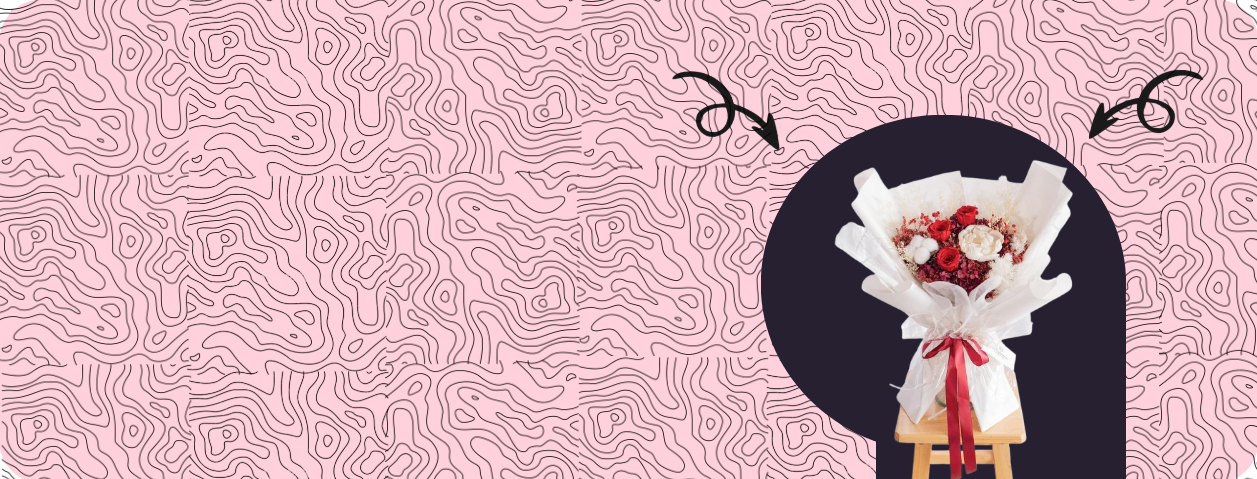
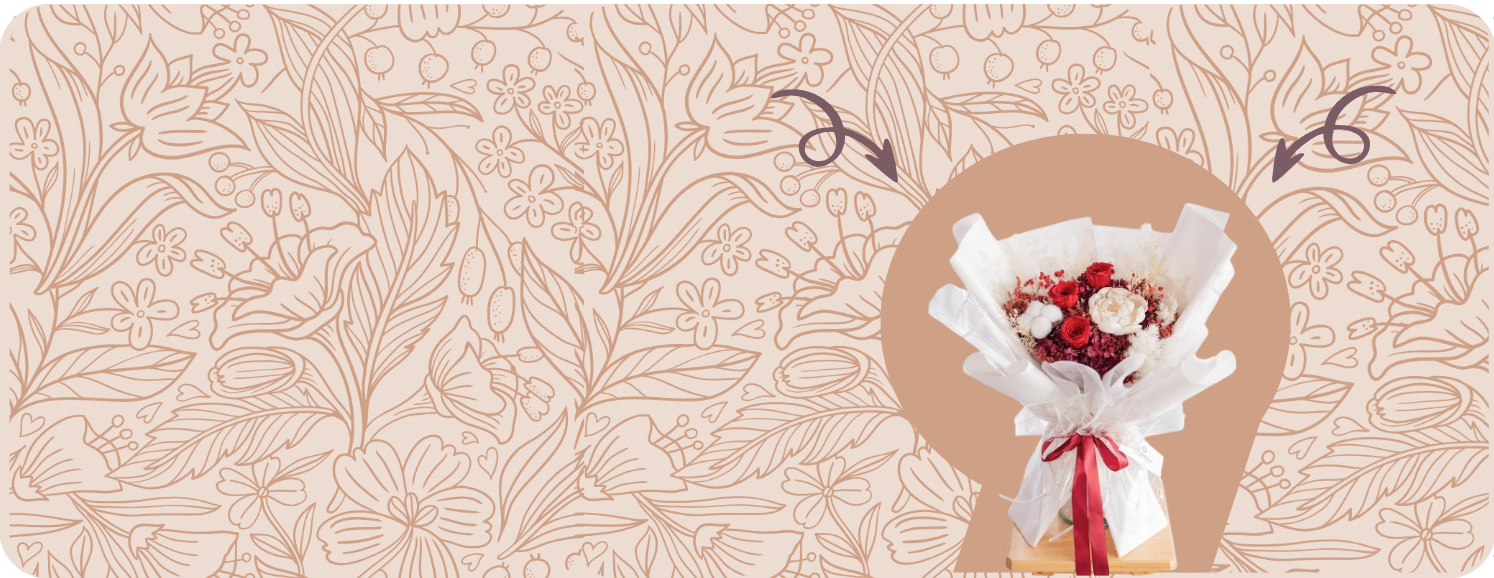
css of order dash

diff --git a/css/navdash.css b/css/navdash.css
@@ -1,0 +1,147 @@
+:root {
+  --pink: #e84393;
+}
+
+body {
+  font-family: "NudMotoya Maru W55 W5", sans-serif;
+  color: #333;
+  margin: 0;
+  padding: 0;
+}
+
+h1 {
+  font-size: 30px;
+  color: #444;
+  text-transform: uppercase;
+  font-weight: 400;
+  text-align: center;
+  margin: 20px 0;
+}
+
+.container {
+  width: 95%;
+  max-width: 1200px;
+  margin: 20px auto;
+  background-color: #fff;
+  border-radius: 8px;
+  padding: 10px 15px;
+  box-shadow: 0 4px 10px rgba(0, 0, 0, 0.1);
+  margin-left: 20rem
+}
+
+.tbl-header{
+  background-color: var(--pink); /* Set header background color */
+  border-radius: 20px;
+  margin-bottom: 20px; /* Space below the header */
+  overflow: hidden; /* Ensures the radius is applied correctly */
+}
+
+
+table {
+  width: 100%;
+  table-layout: fixed;
+  border-collapse: collapse;
+  margin: 20px 0;
+  border-radius: 20px;
+}
+
+th, td {
+  padding: 10px;
+  text-align: center;
+  font-size: 14px;
+  box-sizing: border-box;
+  word-wrap: break-word;
+  vertical-align: top;
+}
+
+th {
+  background-color: var(--pink);
+  color: #fff;
+  text-transform: uppercase;
+  font-weight: 500;
+}
+
+tr:nth-child(odd) {
+  background-color: #f9f9f9;
+}
+
+tr:nth-child(even) {
+  background-color: #fff;
+}
+
+tr:hover {
+  background-color: #f1f1f1;
+}
+
+
+.pagination {
+  display: flex;
+  justify-content: center;
+  margin: 20px 0;
+}
+
+th:nth-child(1), td:nth-child(1) { width: 5%; } /* Row number */
+th:nth-child(2), td:nth-child(2) { width: 13%; } /* Customer details */
+th:nth-child(3), td:nth-child(3) { width: 22%; } /* Product details */
+th:nth-child(4), td:nth-child(4) { width: 22%; } /* Payment information */
+th:nth-child(5), td:nth-child(5) { width: 18%; } /* Paid amount */
+th:nth-child(6), td:nth-child(6), th:nth-child(7), td:nth-child(7) { width: 25%; } /* Status */
+th:nth-child(8), td:nth-child(8) { width: 1%; } /* Actions */
+
+.pagination a {
+  margin: 0 5px;
+  padding: 8px 12px;
+  background-color: #ddd;
+  color: #333;
+  text-decoration: none;
+  border-radius: 4px;
+}
+
+.pagination a:hover {
+  background-color: #ccc;
+}
+
+.pagination .active {
+  background-color: var(--pink);
+  color: white;
+}
+
+.btn-primary {
+  background-color: var(--pink); /* Use your theme color */
+  border: none;
+  padding: 8px;
+  border-radius: 4px;
+  cursor: pointer;
+  display: flex;
+  align-items: center;
+  justify-content: center;
+}
+
+.btn-primary ion-icon {
+  font-size: 16px; /* Adjust icon size */
+  color: #fff; /* White color for the icon */
+}
+
+.btn-primary:hover {
+  background-color: #d63072; /* Darken the color on hover */
+}
+
+.btn-danger {
+  background-color: #e74c3c; /* Red background for delete */
+  border: none;
+  padding: 8px;
+  border-radius: 4px;
+  cursor: pointer;
+  display: flex;
+  align-items: center;
+  justify-content: center;
+}
+
+.btn-danger ion-icon {
+  font-size: 16px; /* Adjust icon size */
+  color: #fff; /* White color for the icon */
+}
+
+.btn-danger:hover {
+  background-color: #c0392b; /* Darker red on hover */
+}

diff --git a/css/main.css b/css/main.css
@@ -404,10 +404,10 @@ header .fa-bars{
     border: 2px solid #ccc; /* Border around the box */
     border-radius: 30px; /* Rounded corners */
     padding: 40px; /* Increased padding inside the box */
-    background-image: url("../ivd/bgbg.png"); /* Background image */
-    background-size: auto; /* Keep the original size of the image */
+    background-image: url("../ivd/bgbgbg.png"); /* Background image */
+    background-size: 170rem; /* Keep the original size of the image */
     background-repeat: no-repeat; /* Prevent the image from repeating */
-    background-position: center -65px; /* Move the image up by 20px */
+    background-position: center -20px; /* Move the image up by 20px */
     text-align: left; /* Align text to the left */
     margin: 0 auto; /* Center the box horizontally */
     position: relative;

diff --git a/admin/navdash.php b/admin/navdash.php
@@ -1,9 +1,9 @@
 <?php
 ob_start();
-include("../inc/config.php");
-include("../inc/functions.php");
-include("../inc/CSRF_Protect.php");
-require_once '../auth.php';
+include("inc/config.php");
+include("inc/functions.php");
+include("inc/CSRF_Protect.php");
+require_once 'auth.php';
 
 // Pagination Variables
 $limit = 5; // Number of records per page
@@ -79,9 +79,9 @@ if ($_SERVER['REQUEST_METHOD'] === 'POST' && isset($_POST['update_status'])) {
     <meta http-equiv="X-UA-Compatible" content="IE=edge">
     <meta name="viewport" content="width=device-width, initial-scale=1.0">
     <title>La Sorpresa Admin</title>
-    <link rel="stylesheet" href="../../css/settings.css?v.1.1">
-    <link rel="stylesheet" href="../../css/navdash.css">
-    <link rel="stylesheet" href="../../css/products.css">
+    <link rel="stylesheet" href="../css/settings.css?v.1.1">
+    <link rel="stylesheet" href="../css/navdash.css">
+    <link rel="stylesheet" href="../css/products.css">
     <script type="module" src="https://unpkg.com/ionicons@5.5.2/dist/ionicons/ionicons.esm.js"></script>
     <script nomodule src="https://unpkg.com/ionicons@5.5.2/dist/ionicons/ionicons.js"></script>
     
@@ -93,7 +93,7 @@ if ($_SERVER['REQUEST_METHOD'] === 'POST' && isset($_POST['update_status'])) {
                 <li>
                     <a href="#">
                         <div class="logo-container">
-                            <img src="../../images/logo.png" alt="Logo" class="logo" />
+                            <img src="../images/logo.png" alt="Logo" class="logo" />
                         </div>
                         <span class="title"></span>
                     </a>
@@ -252,7 +252,7 @@ if ($_SERVER['REQUEST_METHOD'] === 'POST' && isset($_POST['update_status'])) {
             const shippingStatus = document.getElementById(`shipping-status-${orderId}`).value;
 
             // Update Payment Status
-            fetch('order-change-status.php', {
+            fetch('orders/order-change-status.php', {
                 method: 'POST',
                 headers: {
                     'Content-Type': 'application/x-www-form-urlencoded',
@@ -274,7 +274,7 @@ if ($_SERVER['REQUEST_METHOD'] === 'POST' && isset($_POST['update_status'])) {
                 .catch((error) => console.error('Error:', error));
 
             // Update Shipping Status
-            fetch('order-change-status.php', {
+            fetch('orders/order-change-status.php', {
                 method: 'POST',
                 headers: {
                     'Content-Type': 'application/x-www-form-urlencoded',

diff --git a/loading.php b/loading.php
@@ -131,7 +131,7 @@
         $(".loading-screen").fadeOut(1000, function () {
           $("#content").fadeIn(1000);
         });
-      }, 1500);
+      }, 1000);
     });
 
     $(document).ajaxStart(function () {
